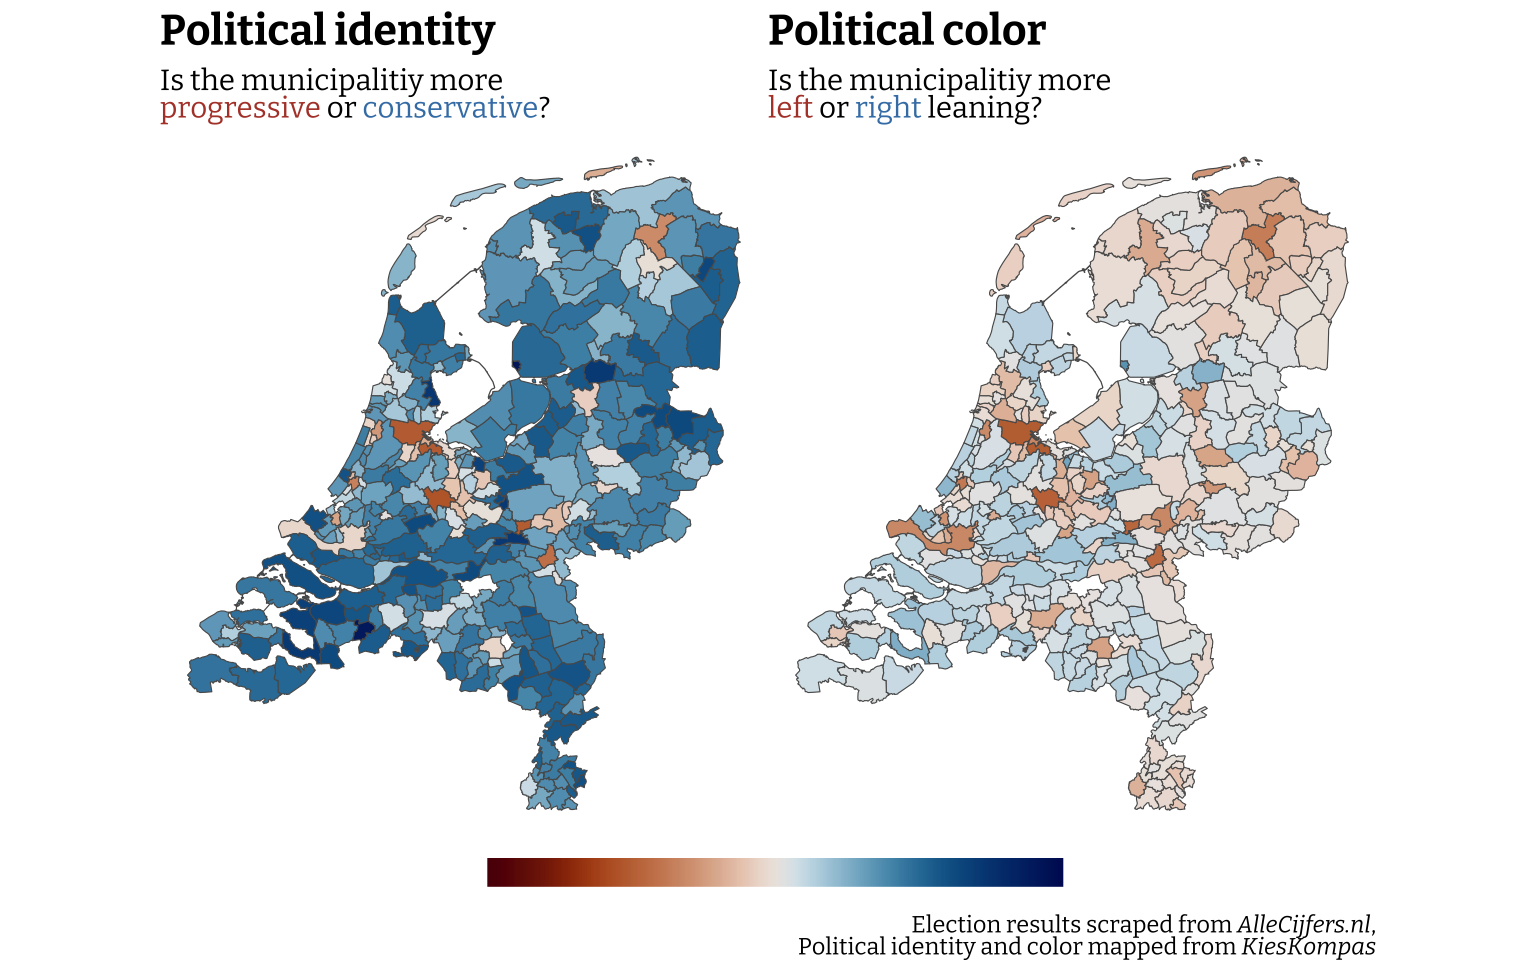
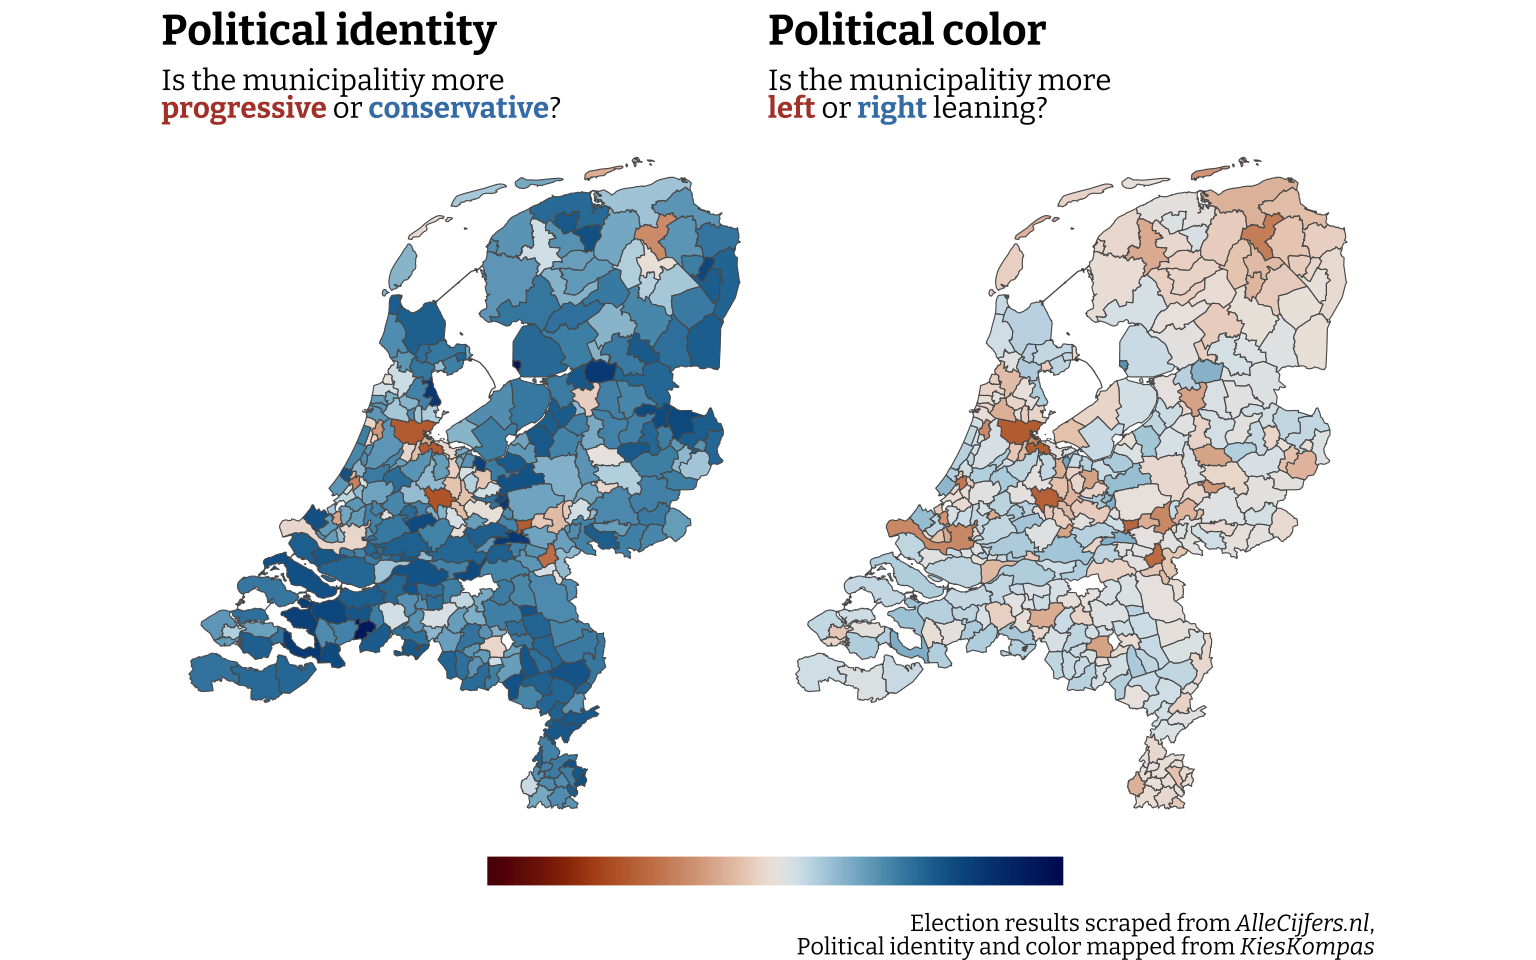
update plot and linting

diff --git a/content/blog/2023-dutch-elections/index.md b/content/blog/2023-dutch-elections/index.md
@@ -401,7 +401,7 @@ polls_peilingwijzer <- tribble(
 polls_peilingwijzer |>
   inner_join(data_parties) |>
   inner_join(data_polls_pre_new |>
-    select(party, current_seats)) |>
+               select(party, current_seats)) |>
   mutate(
     color = ifelse(color == "grey92", "grey", color),
     range_max_label = ifelse(range_max <= 2,
@@ -852,7 +852,9 @@ summary_municipality <- results_municipality |>
   ) +
   labs(
     title = "Political identity",
-    subtitle = "Is the municipalitiy more<br><span style='color: #B24334'>progressive</span> or <span style='color: #4180B4'>conservative</span>?",
+    subtitle = "Is the municipalitiy more<br>
+      <span style='color: #B24334'>**progressive**</span> or
+      <span style='color: #4180B4'>**conservative**</span>?",
     fill = NULL
   ) +
   scico::scale_fill_scico(
@@ -868,7 +870,9 @@ summary_municipality <- results_municipality |>
     ) +
     labs(
       title = "Political color",
-      subtitle = "Is the municipalitiy more<br><span style='color: #B24334'>left</span> or <span style='color: #4180B4'>right</span> leaning?",
+      subtitle = "Is the municipalitiy more<br>
+        <span style='color: #B24334'>**left**</span> or
+        <span style='color: #4180B4'>**right**</span> leaning?",
       fill = NULL
     ) +
     scico::scale_fill_scico(
@@ -888,7 +892,7 @@ summary_municipality <- results_municipality |>
     plot.title.position = "plot",
     plot.title = element_markdown(size = 16, face = "bold"),
     plot.subtitle = element_markdown(),
-    plot.caption = element_markdown(lineheight = 0.75),
+    plot.caption = element_markdown(lineheight = 1),
     plot.caption.position = "plot",
     legend.text = element_blank(),
     legend.position = "bottom"
